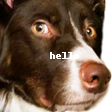
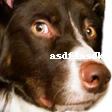
removed hello for mike's sanity

Changed region(s): [[0.4286, 0.4554, 0.6696, 0.5357], [0.6964, 0.4554, 0.9107, 0.5357]]

diff --git a/app/routes.py b/app/routes.py
@@ -13,6 +13,6 @@ def index():
         if uploaded_file.filename != '':
             filename = os.path.join(uploads_dir, uploaded_file.filename)
             uploaded_file.save(os.path.join(uploads_dir, uploaded_file.filename))
-            watermark.watermark_text(filename, uploads_dir, "hello", [50, 50])
+            watermark.watermark_text(filename, uploads_dir, "asdflasdkjfa", [50, 50])
             return render_template('success.html')
     return render_template('index.html')
